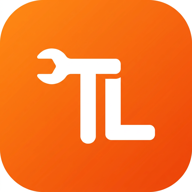
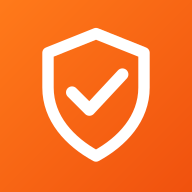
Rebrand TradeLink -> Trustade + add PWA install prompt
- Rename product to Trustade across UI, backend, docs, manifest, service
  worker, package names, emails and render blueprint.
- New brand mark: trust shield + checkmark (SVG Logo + regenerated PWA icons).
- Wordmark now Trust+ade (accent on 'ade').
- Add Chrome/Android 'Install app' prompt via beforeinstallprompt with
  snooze + appinstalled handling.

diff --git a/frontend/src/App.jsx b/frontend/src/App.jsx
@@ -120,7 +120,7 @@ function Nav() {
     <nav className={`nav ${onDark ? 'on-dark' : ''}`}>
       <Link to="/" className="brand">
         <Logo size={30} />
-        <span>Trade<span className="accent">Link</span></span>
+        <span>Trust<span className="accent">ade</span></span>
       </Link>
       <div className="nav-right">
         {user ? (
@@ -153,7 +153,7 @@ function Footer() {
     <footer className="site-footer">
       <div className="inner">
         <div>
-          <Link to="/" className="brand"><Logo size={26} /> <span>Trade<span className="accent">Link</span></span></Link>
+          <Link to="/" className="brand"><Logo size={26} /> <span>Trust<span className="accent">ade</span></span></Link>
           <p className="tag">Trusted local tradespeople across Zimbabwe.</p>
         </div>
         <div className="cols">
@@ -177,7 +177,7 @@ function Footer() {
         </div>
       </div>
       <div className="legal">
-        <span>© {year} TradeLink. All rights reserved.</span>
+        <span>© {year} Trustade. All rights reserved.</span>
         <span>Payment is arranged directly between customer and tradesperson.</span>
       </div>
     </footer>
@@ -203,6 +203,70 @@ function CookieBanner() {
       <div className="acts">
         <button className="btn secondary sm" onClick={() => decide('essential')}>Essential only</button>
         <button className="btn sm" onClick={() => decide('all')}>Accept</button>
+      </div>
+    </div>
+  );
+}
+
+function isStandalone() {
+  return window.matchMedia('(display-mode: standalone)').matches || window.navigator.standalone === true;
+}
+
+function InstallPrompt() {
+  const [deferred, setDeferred] = useState(null);
+  const [show, setShow] = useState(false);
+
+  useEffect(() => {
+    if (isStandalone() || localStorage.getItem('tl_pwa_installed')) return;
+
+    function onBeforeInstall(e) {
+      e.preventDefault();
+      setDeferred(e);
+      // Only nudge once the user has dealt with the cookie notice, and not if
+      // they recently dismissed this prompt.
+      const snoozed = Number(localStorage.getItem('tl_install_snoozed') || 0);
+      const recentlySnoozed = Date.now() - snoozed < 7 * 24 * 60 * 60 * 1000;
+      if (!recentlySnoozed) setShow(true);
+    }
+    function onInstalled() {
+      localStorage.setItem('tl_pwa_installed', '1');
+      setShow(false);
+      setDeferred(null);
+    }
+    window.addEventListener('beforeinstallprompt', onBeforeInstall);
+    window.addEventListener('appinstalled', onInstalled);
+    return () => {
+      window.removeEventListener('beforeinstallprompt', onBeforeInstall);
+      window.removeEventListener('appinstalled', onInstalled);
+    };
+  }, []);
+
+  async function install() {
+    if (!deferred) return;
+    deferred.prompt();
+    try { await deferred.userChoice; } catch (_) { /* ignore */ }
+    setShow(false);
+    setDeferred(null);
+  }
+
+  function snooze() {
+    localStorage.setItem('tl_install_snoozed', String(Date.now()));
+    setShow(false);
+  }
+
+  if (!show) return null;
+  return (
+    <div className="install-card" role="dialog" aria-label="Install Trustade">
+      <div className="install-ico"><Logo size={40} /></div>
+      <div className="install-copy">
+        <strong>Install the Trustade app</strong>
+        <span>Add Trustade to your home screen for one-tap access and instant job alerts.</span>
+      </div>
+      <div className="install-acts">
+        <button className="btn ghost sm" onClick={snooze}>Not now</button>
+        <button className="btn sm" onClick={install}>
+          <Icon name="plus" size={15} /> Install app
+        </button>
       </div>
     </div>
   );
@@ -248,6 +312,7 @@ export default function App() {
         </Routes>
       </div>
       <Footer />
+      <InstallPrompt />
       <CookieBanner />
     </>
   );

diff --git a/frontend/src/pages/Legal.jsx b/frontend/src/pages/Legal.jsx
@@ -24,13 +24,13 @@ function Layout({ title, children }) {
 export function Terms() {
   return (
     <Layout title="Terms & Conditions">
-      <p>Welcome to TradeLink. These Terms &amp; Conditions ("Terms") govern your use of the TradeLink
+      <p>Welcome to Trustade. These Terms &amp; Conditions ("Terms") govern your use of the Trustade
         platform ("Platform"), which connects customers with independent tradespeople across
         Zimbabwe. By creating an account or using the Platform, you agree to these Terms.</p>
 
-      <h2>1. What TradeLink is</h2>
-      <p>TradeLink is a marketplace that helps customers post jobs and receive offers from tradespeople.
-        TradeLink is <strong>not</strong> a party to any agreement between a customer and a tradesperson. We do
+      <h2>1. What Trustade is</h2>
+      <p>Trustade is a marketplace that helps customers post jobs and receive offers from tradespeople.
+        Trustade is <strong>not</strong> a party to any agreement between a customer and a tradesperson. We do
         not employ tradespeople, do not perform the work, and do not guarantee the quality, safety or
         legality of any job. Tradespeople are independent contractors.</p>
 
@@ -49,7 +49,7 @@ export function Terms() {
       </ul>
 
       <h2>4. Payments</h2>
-      <p>In this version of TradeLink, <strong>no payments are processed on the Platform</strong>. All payment
+      <p>In this version of Trustade, <strong>no payments are processed on the Platform</strong>. All payment
         is arranged and made directly between the customer and the tradesperson. Any commission or service
         fee arrangement will be communicated to you and, where introduced, will be governed by an updated
         version of these Terms.</p>
@@ -62,7 +62,7 @@ export function Terms() {
       </ul>
 
       <h2>6. Disclaimers &amp; liability</h2>
-      <p>The Platform is provided "as is". To the maximum extent permitted by law, TradeLink is not liable
+      <p>The Platform is provided "as is". To the maximum extent permitted by law, Trustade is not liable
         for the acts or omissions of any customer or tradesperson, for the quality or outcome of any job, or
         for any loss arising from arrangements made through the Platform. You use the Platform at your own risk
         and are responsible for verifying credentials and agreeing scope, price and safety with the other party.</p>
@@ -80,7 +80,7 @@ export function Terms() {
 export function Privacy() {
   return (
     <Layout title="Privacy Policy">
-      <p>This Privacy Policy explains what personal information TradeLink collects, how we use it, and your
+      <p>This Privacy Policy explains what personal information Trustade collects, how we use it, and your
         rights. It applies to everyone who uses the Platform in Zimbabwe.</p>
 
       <h2>1. Information we collect</h2>
@@ -122,7 +122,7 @@ export function Privacy() {
 export function Cookies() {
   return (
     <Layout title="Cookie Policy">
-      <p>This Cookie Policy explains how TradeLink uses cookies and similar local-storage technologies.</p>
+      <p>This Cookie Policy explains how Trustade uses cookies and similar local-storage technologies.</p>
 
       <h2>1. What we use</h2>
       <ul>
@@ -132,7 +132,7 @@ export function Cookies() {
       </ul>
 
       <h2>2. What we do not use</h2>
-      <p>TradeLink v1 does not use third-party advertising cookies or cross-site tracking. We do not sell your data.</p>
+      <p>Trustade v1 does not use third-party advertising cookies or cross-site tracking. We do not sell your data.</p>
 
       <h2>3. Managing cookies</h2>
       <p>You can clear cookies and local storage at any time through your browser settings. Doing so will sign you

diff --git a/frontend/src/pages/Admin.jsx b/frontend/src/pages/Admin.jsx
@@ -353,8 +353,8 @@ function ConfirmModal({ pending, busy, onCancel, onConfirm }) {
   if (!pending) return null;
   const { user: u, action } = pending;
   const meta = {
-    suspend:        { title: `Suspend ${u.name}?`,          body: 'They will be signed out and blocked from using TradeLink until you un-suspend them.', cta: 'Suspend',      danger: true, reason: true },
-    unsuspend:      { title: `Un-suspend ${u.name}?`,       body: 'They will be able to log in and use TradeLink again.',                                cta: 'Un-suspend' },
+    suspend:        { title: `Suspend ${u.name}?`,          body: 'They will be signed out and blocked from using Trustade until you un-suspend them.', cta: 'Suspend',      danger: true, reason: true },
+    unsuspend:      { title: `Un-suspend ${u.name}?`,       body: 'They will be able to log in and use Trustade again.',                                cta: 'Un-suspend' },
     'make-admin':   { title: `Make ${u.name} an admin?`,    body: 'They will get access to the admin console and can manage users and complaints.',       cta: 'Make admin' },
     'revoke-admin': { title: `Remove admin from ${u.name}?`,body: 'They will lose admin access and return to a normal account.',                          cta: 'Remove admin', danger: true },
   }[action];

diff --git a/frontend/src/pages/Support.jsx b/frontend/src/pages/Support.jsx
@@ -6,10 +6,10 @@ import { Alert } from '../components.jsx';
 import { Icon } from '../icons.jsx';
 
 const FAQS = [
-  { q: 'How much does TradeLink cost?', a: 'Posting a job and receiving offers is free in v1. Payment for the work itself is arranged directly between you and the tradesperson.' },
+  { q: 'How much does Trustade cost?', a: 'Posting a job and receiving offers is free in v1. Payment for the work itself is arranged directly between you and the tradesperson.' },
   { q: 'How do I get paid / pay?', a: 'Payment happens off-platform for now — cash, bank transfer or mobile money, agreed directly between the customer and tradesperson once an offer is accepted.' },
   { q: 'What if a tradesperson does poor work?', a: 'Rate the tradesperson honestly after completion. Ratings help the whole community choose well. You can also contact us below.' },
-  { q: 'How do I become verified?', a: 'Verification is granted by the TradeLink team. Complete jobs and build up genuine ratings, then reach out via this form.' },
+  { q: 'How do I become verified?', a: 'Verification is granted by the Trustade team. Complete jobs and build up genuine ratings, then reach out via this form.' },
 ];
 
 export default function Support() {

diff --git a/frontend/src/icons.jsx b/frontend/src/icons.jsx
@@ -255,11 +255,13 @@ export function Icon({ name, size = 18, className, style, ...rest }) {
 export function Logo({ size = 30 }) {
   return (
     <svg width={size} height={size} viewBox="0 0 32 32" aria-hidden="true">
-      <rect width="32" height="32" rx="9" fill="url(#tlg)" />
-      <path d="M10 9.5 9 22M10 9.5l4 4M22 9.5 23 22M22 9.5l-4 4M13.5 13.5h5M12.5 22h7"
-        fill="none" stroke="#fff" strokeWidth="1.9" strokeLinecap="round" strokeLinejoin="round" />
+      <rect width="32" height="32" rx="9" fill="url(#tsg)" />
+      <path d="M16 5.6 24 8.8V14.6C24 19.7 20.4 23.6 16 26 11.6 23.6 8 19.7 8 14.6V8.8L16 5.6Z"
+        fill="none" stroke="#fff" strokeWidth="1.9" strokeLinejoin="round" />
+      <path d="M12 15.4 14.9 18.3 20.4 12.4"
+        fill="none" stroke="#fff" strokeWidth="2" strokeLinecap="round" strokeLinejoin="round" />
       <defs>
-        <linearGradient id="tlg" x1="0" y1="0" x2="32" y2="32" gradientUnits="userSpaceOnUse">
+        <linearGradient id="tsg" x1="0" y1="0" x2="32" y2="32" gradientUnits="userSpaceOnUse">
           <stop stopColor="#FF7A1A" />
           <stop offset="1" stopColor="#F0510E" />
         </linearGradient>

diff --git a/frontend/src/styles.css b/frontend/src/styles.css
@@ -516,3 +516,18 @@ svg { display: block; }
 /* Enable-alerts button (dashboard) */
 .alerts-cta { display: inline-flex; align-items: center; gap: 8px; }
 .alerts-on { display: inline-flex; align-items: center; gap: 6px; color: var(--ok); font-size: 13.5px; font-weight: 600; }
+
+/* ------------------------------------------------------ PWA install card --- */
+.install-card {
+  position: fixed; left: 16px; right: 16px; bottom: 16px; z-index: 80;
+  max-width: 460px; margin: 0 auto;
+  background: var(--card); border: 1px solid var(--line); border-radius: 16px;
+  padding: 14px 16px; box-shadow: var(--shadow-lg);
+  display: flex; gap: 14px; align-items: center; flex-wrap: wrap;
+  animation: modal-in .16s ease-out;
+}
+.install-ico { flex: none; display: grid; place-items: center; }
+.install-copy { flex: 1; min-width: 200px; display: flex; flex-direction: column; gap: 2px; }
+.install-copy strong { font-family: var(--display); font-size: 15px; color: var(--ink-900); }
+.install-copy span { font-size: 13px; color: var(--muted); line-height: 1.45; }
+.install-acts { display: flex; gap: 8px; align-items: center; margin-left: auto; }

diff --git a/frontend/index.html b/frontend/index.html
@@ -6,8 +6,8 @@
     <meta name="theme-color" content="#f2560e" />
     <link rel="manifest" href="/manifest.json" />
     <link rel="apple-touch-icon" href="/icon-192.png" />
-    <title>TradeLink — Find trusted local tradespeople</title>
-    <meta name="description" content="TradeLink connects customers with verified local electricians, plumbers, mechanics and handymen in Bulawayo & Zvishavane." />
+    <title>Trustade — Find trusted local tradespeople</title>
+    <meta name="description" content="Trustade connects customers with verified local electricians, plumbers, mechanics and handymen in Bulawayo & Zvishavane." />
     <link rel="preconnect" href="https://fonts.googleapis.com" />
     <link rel="preconnect" href="https://fonts.gstatic.com" crossorigin />
     <link href="https://fonts.googleapis.com/css2?family=Plus+Jakarta+Sans:wght@400;500;600;700;800&family=Space+Grotesk:wght@500;600;700&display=swap" rel="stylesheet" />

diff --git a/backend/src/index.js b/backend/src/index.js
@@ -30,7 +30,7 @@ app.use('/api/auth', authLimiter);    // stricter cap on auth endpoints
 app.use('/api/support', writeLimiter);
 
 // --- API routes ---
-app.get('/api/health', (req, res) => res.json({ ok: true, service: 'tradelink', time: new Date().toISOString() }));
+app.get('/api/health', (req, res) => res.json({ ok: true, service: 'trustade', time: new Date().toISOString() }));
 app.get('/api/meta/categories', (req, res) => res.json({ categories: CATEGORIES }));
 // Public runtime config for the frontend (e.g. Google sign-in client id).
 app.get('/api/meta/config', (req, res) => res.json({
@@ -75,7 +75,7 @@ async function start() {
       await seedAdmin();
     }
     app.listen(PORT, '0.0.0.0', () => {
-      console.log(`TradeLink API listening on 0.0.0.0:${PORT}`);
+      console.log(`Trustade API listening on 0.0.0.0:${PORT}`);
     });
   } catch (err) {
     console.error('Failed to start:', err.message);

diff --git a/frontend/src/pages/Auth.jsx b/frontend/src/pages/Auth.jsx
@@ -124,7 +124,7 @@ export default function Auth({ mode }) {
       <div className="card auth-card">
         <h1 className="h1">{isRegister ? 'Create your account' : 'Welcome back'}</h1>
         <p className="sub">
-          {isRegister ? 'Join TradeLink in under a minute.' : 'Log in to manage your jobs and offers.'}
+          {isRegister ? 'Join Trustade in under a minute.' : 'Log in to manage your jobs and offers.'}
         </p>
 
         <Alert kind="error">{error}</Alert>
@@ -216,7 +216,7 @@ export default function Auth({ mode }) {
           {isRegister ? (
             <>Already have an account? <Link to="/login">Log in</Link></>
           ) : (
-            <>New to TradeLink? <Link to="/register">Create an account</Link></>
+            <>New to Trustade? <Link to="/register">Create an account</Link></>
           )}
         </p>
       </div>

diff --git a/backend/src/paynow.js b/backend/src/paynow.js
@@ -1,4 +1,4 @@
-// Paynow integration client for TradeLink.
+// Paynow integration client for Trustade.
 // Docs: https://developers.paynow.co.zw/docs/paynow/
 //
 // Handles: hash generation/verification, web (redirect) initiation,
@@ -135,7 +135,7 @@ async function initiateExpress(params) {
     ['phone', params.phone || ''],
   ];
   // authemail is required for express — ensure present.
-  const body = buildInitiateBody({ ...params, authemail: params.authemail || 'noreply@tradelink.co.zw' }, extra);
+  const body = buildInitiateBody({ ...params, authemail: params.authemail || 'noreply@trustade.co.zw' }, extra);
   const fields = await postForm(REMOTE_URL, body);
   const status = (getField(fields, 'status') || '').toLowerCase();
   if (status !== 'ok') {

diff --git a/frontend/public/sw.js b/frontend/public/sw.js
@@ -1,11 +1,11 @@
-/* TradeLink service worker — Web Push notifications. */
+/* Trustade service worker — Web Push notifications. */
 self.addEventListener('install', () => self.skipWaiting());
 self.addEventListener('activate', (event) => event.waitUntil(self.clients.claim()));
 
 self.addEventListener('push', (event) => {
   let data = {};
   try { data = event.data ? event.data.json() : {}; } catch (e) { data = {}; }
-  const title = data.title || 'TradeLink';
+  const title = data.title || 'Trustade';
   const options = {
     body: data.body || '',
     icon: '/icon-192.png',

diff --git a/backend/src/notify.js b/backend/src/notify.js
@@ -5,7 +5,7 @@ const { CATEGORY_LABELS } = require('./constants');
 // --- Web Push setup (VAPID) -------------------------------------------------
 const VAPID_PUBLIC = process.env.VAPID_PUBLIC_KEY;
 const VAPID_PRIVATE = process.env.VAPID_PRIVATE_KEY;
-const VAPID_SUBJECT = process.env.VAPID_SUBJECT || 'mailto:admin@tradelink.co.zw';
+const VAPID_SUBJECT = process.env.VAPID_SUBJECT || 'mailto:admin@trustade.co.zw';
 let pushEnabled = false;
 if (VAPID_PUBLIC && VAPID_PRIVATE) {
   try { webpush.setVapidDetails(VAPID_SUBJECT, VAPID_PUBLIC, VAPID_PRIVATE); pushEnabled = true; }
